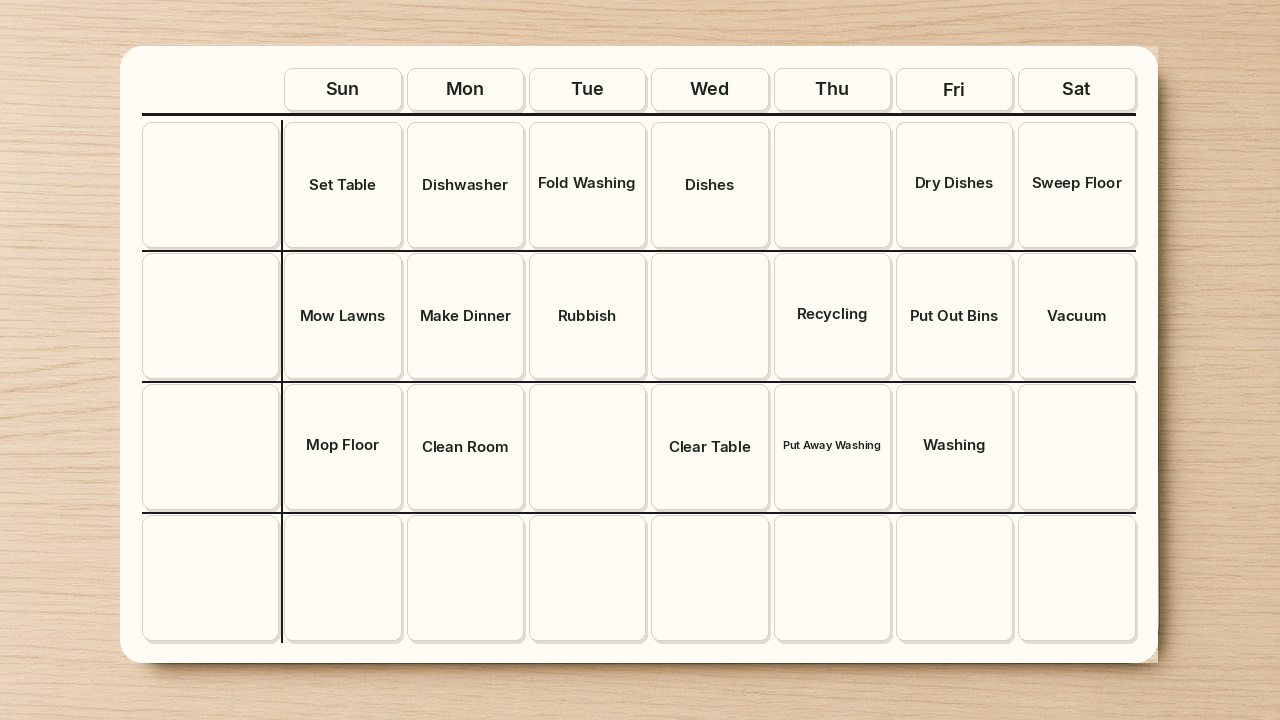
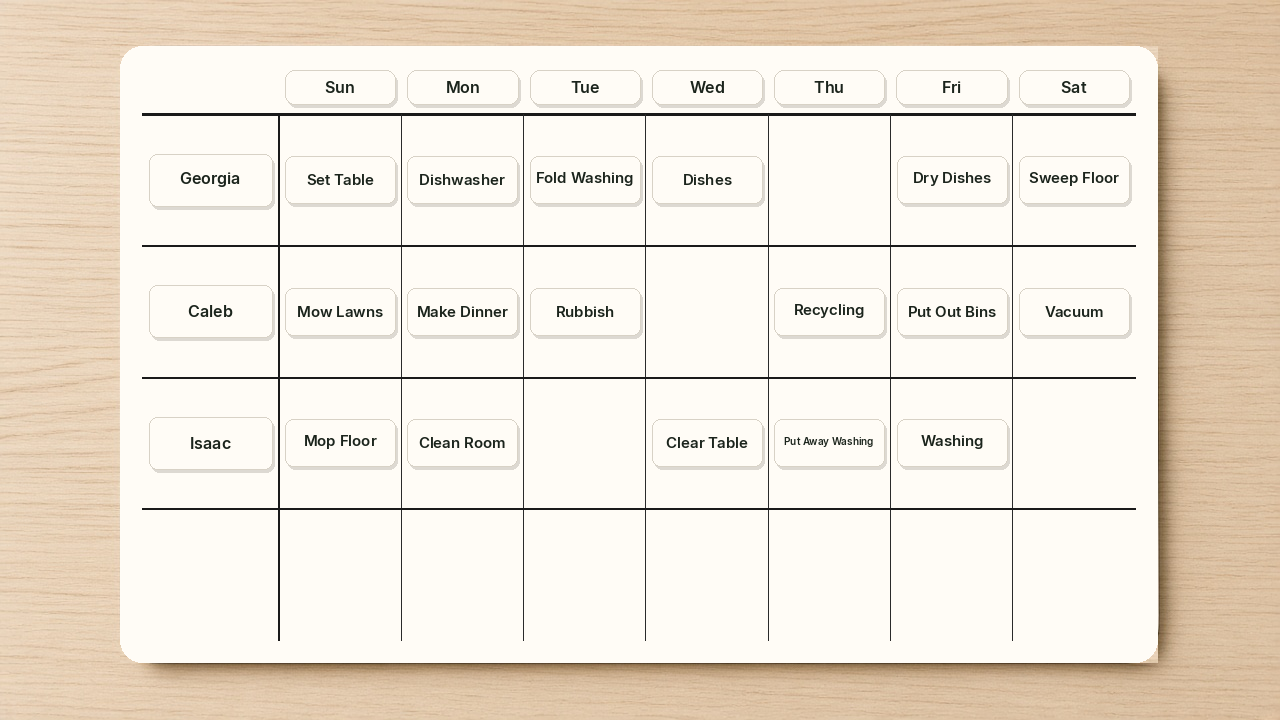
Put Georgia, Caleb, and Isaac back as thin tiles on Chores
v2.59. Georgia, Caleb, and Isaac back on the Chores pictures as thin name tiles. Chore words are thin pack-shaped magnets in the cells. Cache ?v=2.59.

diff --git a/chores.html b/chores.html
@@ -9,7 +9,7 @@
   <link rel="preconnect" href="https://fonts.googleapis.com">
   <link rel="preconnect" href="https://fonts.gstatic.com" crossorigin>
   <link href="https://fonts.googleapis.com/css2?family=DM+Sans:ital,opsz,wght@0,9..40,500;0,9..40,600;0,9..40,700;1,9..40,500&family=Fraunces:opsz,wght@9..144,600&family=Nunito+Sans:wght@500;700;800&display=swap" rel="stylesheet">
-  <link rel="stylesheet" href="css/styles.css?v=2.58">
+  <link rel="stylesheet" href="css/styles.css?v=2.59">
 </head>
 <body>
   <div id="site-header"></div>
@@ -17,7 +17,7 @@
     <div>
       <div id="hero-stage" class="board-stage photo-stage mount-magnetic size-a4" role="region" aria-label="Chores.">
         <figure id="board-hero" class="hero-photo-frame board-a4 mount-magnetic" data-lines="3">
-          <img src="images/chores-hero-photo.png" width="1280" height="720" alt="White ferrous weekly chores board on light wood, same width as the Routines picture. Magnetic day words Sun through Sat; empty name column; title-case chore tiles from the old set plus Clean Room, Clear Table, Put Away Washing, and Washing.">
+          <img src="images/chores-hero-photo.png" width="1280" height="720" alt="White ferrous weekly chores board on light wood, same width as the Routines picture. Magnetic day words Sun through Sat; thin name tiles Georgia, Caleb, and Isaac on the left; thin title-case chore tiles from the 17-word pack sitting in the day cells.">
         </figure>
       </div>
       <p id="hero-caption">3 name rows · A4</p>
@@ -46,7 +46,7 @@
   </main>
   <footer id="site-footer" class="wrap"></footer>
   <script src="js/store.js"></script>
-  <script src="js/site.js?v=2.58"></script>
-  <script src="js/chores.js?v=2.58"></script>
+  <script src="js/site.js?v=2.59"></script>
+  <script src="js/chores.js?v=2.59"></script>
 </body>
 </html>

diff --git a/house-rules.html b/house-rules.html
@@ -9,7 +9,7 @@
   <link rel="preconnect" href="https://fonts.googleapis.com">
   <link rel="preconnect" href="https://fonts.gstatic.com" crossorigin>
   <link href="https://fonts.googleapis.com/css2?family=DM+Sans:ital,opsz,wght@0,9..40,500;0,9..40,600;0,9..40,700;1,9..40,500&family=Fraunces:opsz,wght@9..144,600&family=Nunito+Sans:wght@500;700;800&display=swap" rel="stylesheet">
-  <link rel="stylesheet" href="css/styles.css?v=2.58">
+  <link rel="stylesheet" href="css/styles.css?v=2.59">
 </head>
 <body>
   <div id="site-header"></div>
@@ -38,7 +38,7 @@
   </main>
   <footer id="site-footer" class="wrap"></footer>
   <script src="js/store.js"></script>
-  <script src="js/site.js?v=2.58"></script>
+  <script src="js/site.js?v=2.59"></script>
   <script src="js/photo-board.js"></script>
 </body>
 </html>

diff --git a/meal-plan.html b/meal-plan.html
@@ -9,7 +9,7 @@
   <link rel="preconnect" href="https://fonts.googleapis.com">
   <link rel="preconnect" href="https://fonts.gstatic.com" crossorigin>
   <link href="https://fonts.googleapis.com/css2?family=DM+Sans:ital,opsz,wght@0,9..40,500;0,9..40,600;0,9..40,700;1,9..40,500&family=Fraunces:opsz,wght@9..144,600&family=Nunito+Sans:wght@500;700;800&display=swap" rel="stylesheet">
-  <link rel="stylesheet" href="css/styles.css?v=2.58">
+  <link rel="stylesheet" href="css/styles.css?v=2.59">
 </head>
 <body>
   <div id="site-header"></div>
@@ -38,7 +38,7 @@
   </main>
   <footer id="site-footer" class="wrap"></footer>
   <script src="js/store.js"></script>
-  <script src="js/site.js?v=2.58"></script>
+  <script src="js/site.js?v=2.59"></script>
   <script src="js/photo-board.js"></script>
 </body>
 </html>

diff --git a/routines.html b/routines.html
@@ -9,7 +9,7 @@
   <link rel="preconnect" href="https://fonts.googleapis.com">
   <link rel="preconnect" href="https://fonts.gstatic.com" crossorigin>
   <link href="https://fonts.googleapis.com/css2?family=DM+Sans:ital,opsz,wght@0,9..40,500;0,9..40,600;0,9..40,700;1,9..40,500&family=Fraunces:opsz,wght@9..144,600&family=Nunito+Sans:wght@500;700;800&display=swap" rel="stylesheet">
-  <link rel="stylesheet" href="css/styles.css?v=2.58">
+  <link rel="stylesheet" href="css/styles.css?v=2.59">
 </head>
 <body>
   <div id="site-header"></div>
@@ -49,7 +49,7 @@
   </main>
   <footer id="site-footer" class="wrap"></footer>
   <script src="js/store.js"></script>
-  <script src="js/site.js?v=2.58"></script>
+  <script src="js/site.js?v=2.59"></script>
   <script src="js/photo-board.js"></script>
 </body>
 </html>

diff --git a/shopping-list.html b/shopping-list.html
@@ -9,7 +9,7 @@
   <link rel="preconnect" href="https://fonts.googleapis.com">
   <link rel="preconnect" href="https://fonts.gstatic.com" crossorigin>
   <link href="https://fonts.googleapis.com/css2?family=DM+Sans:ital,opsz,wght@0,9..40,500;0,9..40,600;0,9..40,700;1,9..40,500&family=Fraunces:opsz,wght@9..144,600&family=Nunito+Sans:wght@500;700;800&display=swap" rel="stylesheet">
-  <link rel="stylesheet" href="css/styles.css?v=2.58">
+  <link rel="stylesheet" href="css/styles.css?v=2.59">
 </head>
 <body>
   <div id="site-header"></div>
@@ -38,7 +38,7 @@
   </main>
   <footer id="site-footer" class="wrap"></footer>
   <script src="js/store.js"></script>
-  <script src="js/site.js?v=2.58"></script>
+  <script src="js/site.js?v=2.59"></script>
   <script src="js/photo-board.js"></script>
 </body>
 </html>

diff --git a/weekly.html b/weekly.html
@@ -9,7 +9,7 @@
   <link rel="preconnect" href="https://fonts.googleapis.com">
   <link rel="preconnect" href="https://fonts.gstatic.com" crossorigin>
   <link href="https://fonts.googleapis.com/css2?family=DM+Sans:ital,opsz,wght@0,9..40,500;0,9..40,600;0,9..40,700;1,9..40,500&family=Fraunces:opsz,wght@9..144,600&family=Nunito+Sans:wght@500;700;800&display=swap" rel="stylesheet">
-  <link rel="stylesheet" href="css/styles.css?v=2.58">
+  <link rel="stylesheet" href="css/styles.css?v=2.59">
 </head>
 <body>
   <div id="site-header"></div>
@@ -46,7 +46,7 @@
   </main>
   <footer id="site-footer" class="wrap"></footer>
   <script src="js/store.js"></script>
-  <script src="js/site.js?v=2.58"></script>
+  <script src="js/site.js?v=2.59"></script>
   <script src="js/photo-board.js"></script>
 </body>
 </html>

diff --git a/pack-chores.html b/pack-chores.html
@@ -9,7 +9,7 @@
   <link rel="preconnect" href="https://fonts.googleapis.com">
   <link rel="preconnect" href="https://fonts.gstatic.com" crossorigin>
   <link href="https://fonts.googleapis.com/css2?family=DM+Sans:opsz,wght@9..40,600&family=Fraunces:opsz,wght@9..144,600&family=Nunito+Sans:wght@500;700;800&display=swap" rel="stylesheet">
-  <link rel="stylesheet" href="css/styles.css?v=2.58">
+  <link rel="stylesheet" href="css/styles.css?v=2.59">
 </head>
 <body>
   <div id="site-header"></div>
@@ -34,7 +34,7 @@
   </main>
   <footer id="site-footer" class="wrap"></footer>
   <script src="js/store.js"></script>
-  <script src="js/site.js?v=2.58"></script>
+  <script src="js/site.js?v=2.59"></script>
   <script src="js/photo-pack.js"></script>
 </body>
 </html>

diff --git a/pack-days.html b/pack-days.html
@@ -9,7 +9,7 @@
   <link rel="preconnect" href="https://fonts.googleapis.com">
   <link rel="preconnect" href="https://fonts.gstatic.com" crossorigin>
   <link href="https://fonts.googleapis.com/css2?family=DM+Sans:opsz,wght@9..40,600&family=Fraunces:opsz,wght@9..144,600&family=Nunito+Sans:wght@500;700;800&display=swap" rel="stylesheet">
-  <link rel="stylesheet" href="css/styles.css?v=2.58">
+  <link rel="stylesheet" href="css/styles.css?v=2.59">
 </head>
 <body>
   <div id="site-header"></div>
@@ -34,7 +34,7 @@
   </main>
   <footer id="site-footer" class="wrap"></footer>
   <script src="js/store.js"></script>
-  <script src="js/site.js?v=2.58"></script>
+  <script src="js/site.js?v=2.59"></script>
   <script src="js/photo-pack.js"></script>
 </body>
 </html>

diff --git a/pen-holder.html b/pen-holder.html
@@ -9,7 +9,7 @@
   <link rel="preconnect" href="https://fonts.googleapis.com">
   <link rel="preconnect" href="https://fonts.gstatic.com" crossorigin>
   <link href="https://fonts.googleapis.com/css2?family=DM+Sans:opsz,wght@9..40,600&family=Fraunces:opsz,wght@9..144,600&family=Nunito+Sans:wght@500;700;800&display=swap" rel="stylesheet">
-  <link rel="stylesheet" href="css/styles.css?v=2.58">
+  <link rel="stylesheet" href="css/styles.css?v=2.59">
 </head>
 <body>
   <div id="site-header"></div>
@@ -34,7 +34,7 @@
   </main>
   <footer id="site-footer" class="wrap"></footer>
   <script src="js/store.js"></script>
-  <script src="js/site.js?v=2.58"></script>
+  <script src="js/site.js?v=2.59"></script>
   <script src="js/photo-pack.js"></script>
 </body>
 </html>

diff --git a/success.html b/success.html
@@ -8,7 +8,7 @@
   <link rel="preconnect" href="https://fonts.googleapis.com">
   <link rel="preconnect" href="https://fonts.gstatic.com" crossorigin>
   <link href="https://fonts.googleapis.com/css2?family=Fraunces:opsz,wght@9..144,600&family=Nunito+Sans:wght@500;700;800&display=swap" rel="stylesheet">
-  <link rel="stylesheet" href="css/styles.css?v=2.58">
+  <link rel="stylesheet" href="css/styles.css?v=2.59">
 </head>
 <body>
   <div id="site-header"></div>
@@ -21,7 +21,7 @@
   </main>
   <footer id="site-footer" class="wrap"></footer>
   <script src="js/store.js"></script>
-  <script src="js/site.js?v=2.58"></script>
+  <script src="js/site.js?v=2.59"></script>
   <script src="js/success-page.js"></script>
 </body>
 </html>

diff --git a/pack-custom.html b/pack-custom.html
@@ -8,7 +8,7 @@
   <link rel="preconnect" href="https://fonts.googleapis.com">
   <link rel="preconnect" href="https://fonts.gstatic.com" crossorigin>
   <link href="https://fonts.googleapis.com/css2?family=Fraunces:opsz,wght@9..144,600&family=Nunito+Sans:wght@500;700;800&display=swap" rel="stylesheet">
-  <link rel="stylesheet" href="css/styles.css?v=2.58">
+  <link rel="stylesheet" href="css/styles.css?v=2.59">
 </head>
 <body>
   <div id="site-header"></div>
@@ -40,7 +40,7 @@
   </main>
   <footer id="site-footer" class="wrap"></footer>
   <script src="js/store.js"></script>
-  <script src="js/site.js?v=2.58"></script>
+  <script src="js/site.js?v=2.59"></script>
   <script src="js/custom-pack.js"></script>
 </body>
 </html>

diff --git a/pack-emoji.html b/pack-emoji.html
@@ -8,7 +8,7 @@
   <link rel="preconnect" href="https://fonts.googleapis.com">
   <link rel="preconnect" href="https://fonts.gstatic.com" crossorigin>
   <link href="https://fonts.googleapis.com/css2?family=Fraunces:opsz,wght@9..144,600&family=Nunito+Sans:wght@500;700;800&display=swap" rel="stylesheet">
-  <link rel="stylesheet" href="css/styles.css?v=2.58">
+  <link rel="stylesheet" href="css/styles.css?v=2.59">
 </head>
 <body>
   <div id="site-header"></div>
@@ -33,7 +33,7 @@
   </main>
   <footer id="site-footer" class="wrap"></footer>
   <script src="js/store.js"></script>
-  <script src="js/site.js?v=2.58"></script>
+  <script src="js/site.js?v=2.59"></script>
   <script src="js/photo-pack.js"></script>
 </body>
 </html>
